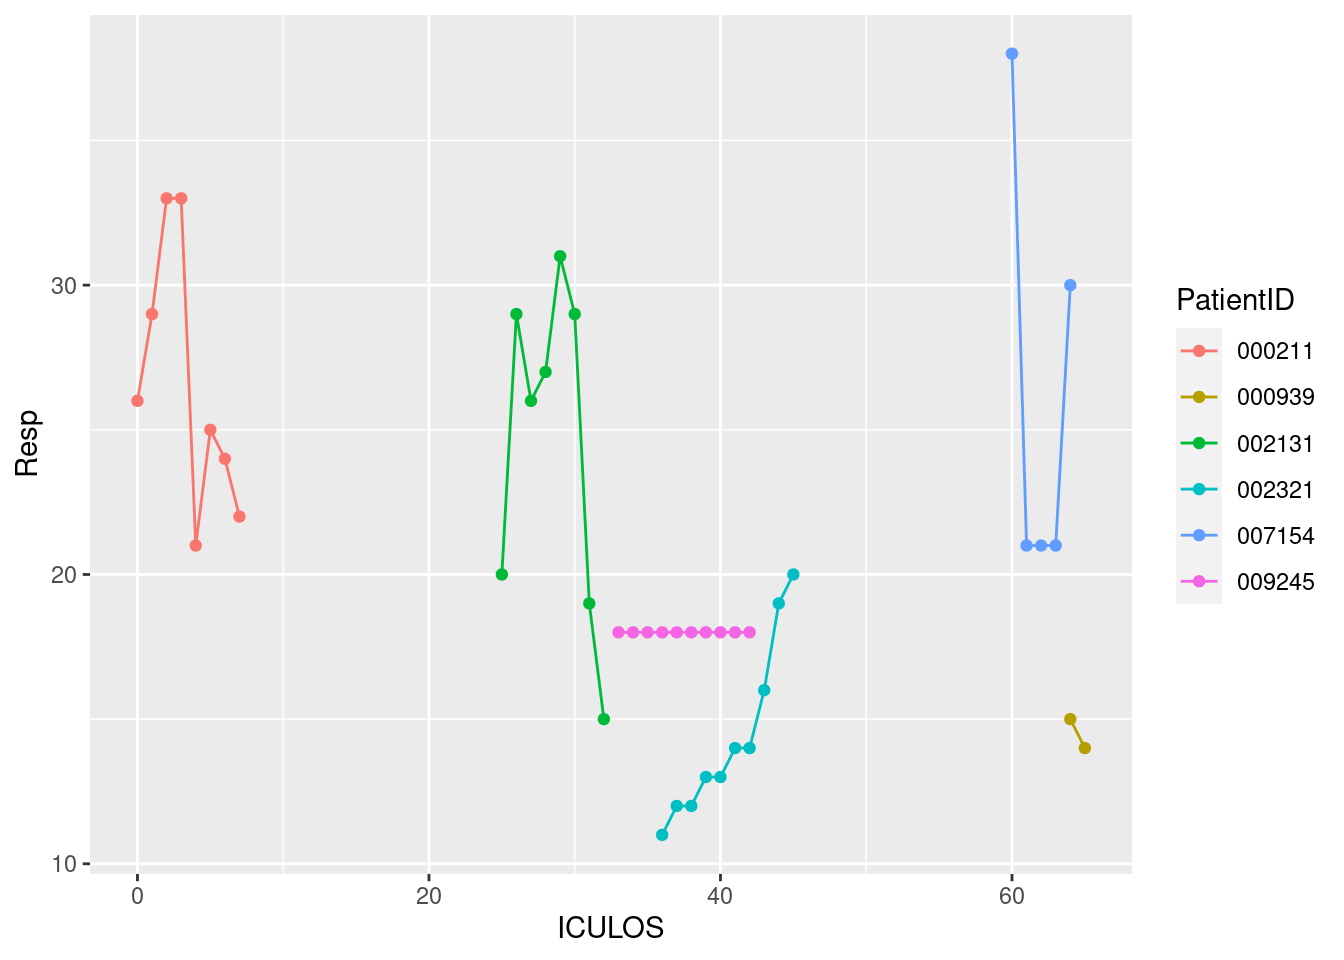
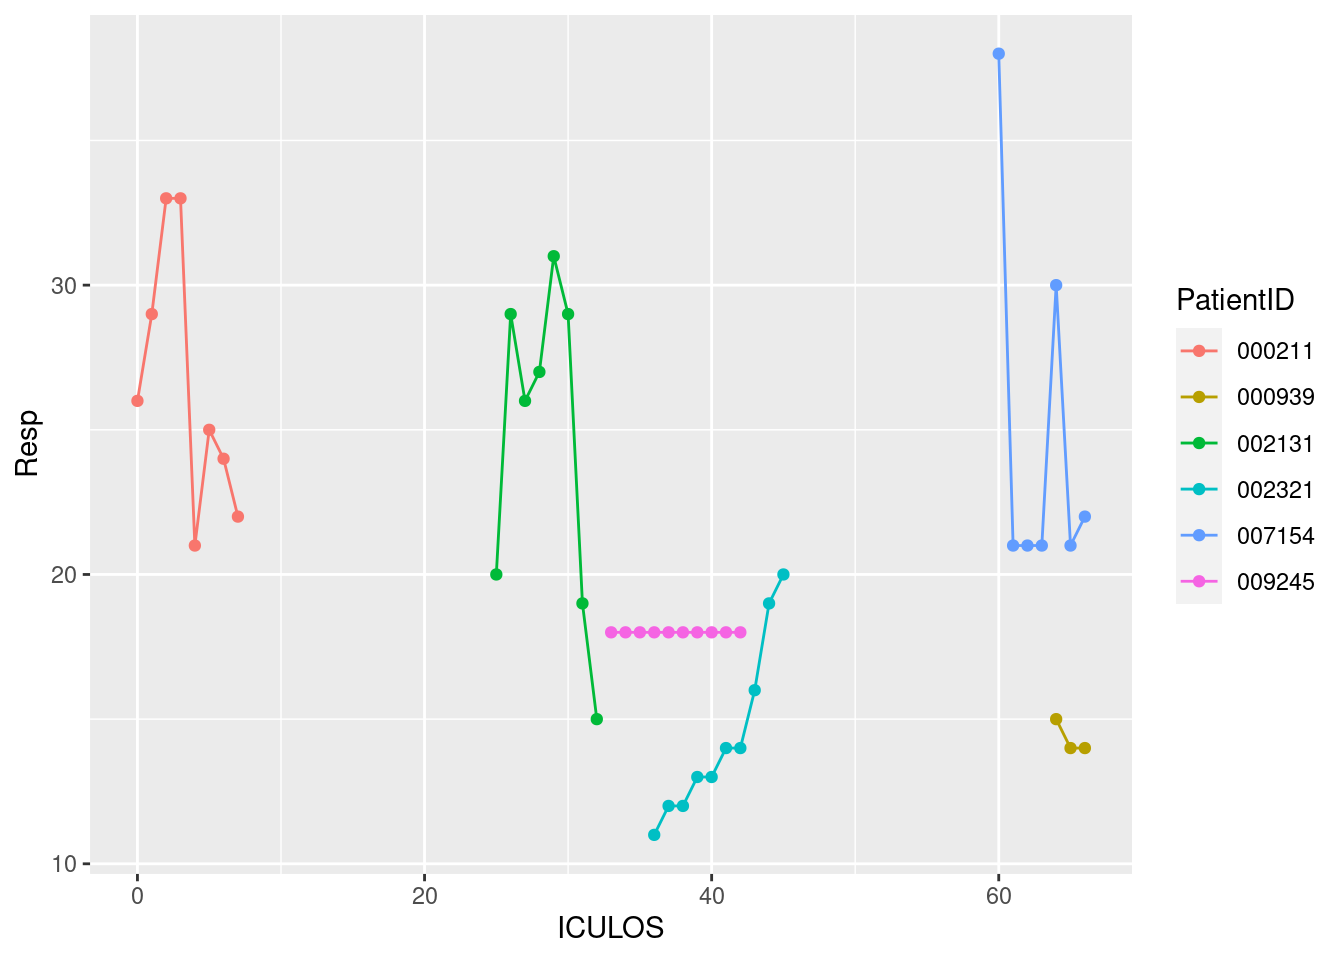
Updated report

diff --git a/a7qmd.html b/a7qmd.html
@@ -80,7 +80,7 @@ ul.task-list li input[type="checkbox"] {
 <h2 class="anchored" data-anchor-id="current-date-and-time">Current date and time</h2>
 <div class="cell">
 <div class="cell-output cell-output-stdout">
-<pre><code>[1] "2023-04-12 09:16:11 UTC"</code></pre>
+<pre><code>[1] "2023-04-12 10:17:16 UTC"</code></pre>
 </div>
 </div>
 </section>
@@ -106,7 +106,7 @@ ul.task-list li input[type="checkbox"] {
 </tr>
 <tr class="even">
 <td style="text-align: left;">000939</td>
-<td style="text-align: right;">75</td>
+<td style="text-align: right;">81</td>
 <td style="text-align: right;">NA</td>
 <td style="text-align: right;">14</td>
 </tr>
@@ -126,7 +126,7 @@ ul.task-list li input[type="checkbox"] {
 <td style="text-align: left;">007154</td>
 <td style="text-align: right;">108</td>
 <td style="text-align: right;">NA</td>
-<td style="text-align: right;">30</td>
+<td style="text-align: right;">22</td>
 </tr>
 <tr class="even">
 <td style="text-align: left;">009245</td>
@@ -211,9 +211,9 @@ ul.task-list li input[type="checkbox"] {
 </tr>
 <tr class="even">
 <td style="text-align: left;">000939</td>
-<td style="text-align: right;">-3</td>
+<td style="text-align: right;">6</td>
 <td style="text-align: right;">NA</td>
-<td style="text-align: right;">-1</td>
+<td style="text-align: right;">0</td>
 </tr>
 <tr class="odd">
 <td style="text-align: left;">001080</td>
@@ -379,9 +379,9 @@ ul.task-list li input[type="checkbox"] {
 </tr>
 <tr class="even">
 <td style="text-align: left;">007154</td>
-<td style="text-align: right;">1</td>
+<td style="text-align: right;">0</td>
 <td style="text-align: right;">NA</td>
-<td style="text-align: right;">9</td>
+<td style="text-align: right;">1</td>
 </tr>
 <tr class="odd">
 <td style="text-align: left;">007365</td>
@@ -421,9 +421,9 @@ ul.task-list li input[type="checkbox"] {
 </tr>
 <tr class="odd">
 <td style="text-align: left;">008907</td>
-<td style="text-align: right;">-14</td>
+<td style="text-align: right;">11</td>
 <td style="text-align: right;">NA</td>
-<td style="text-align: right;">-4</td>
+<td style="text-align: right;">0</td>
 </tr>
 <tr class="even">
 <td style="text-align: left;">008916</td>
